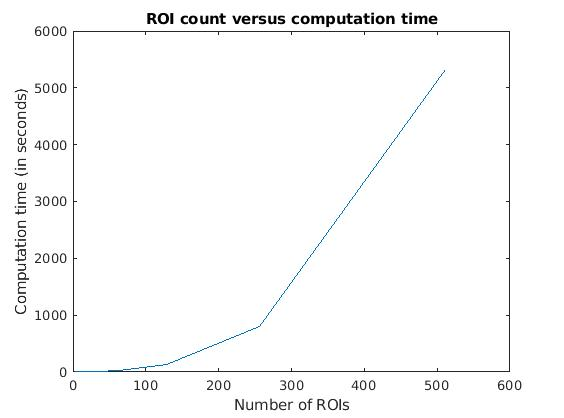
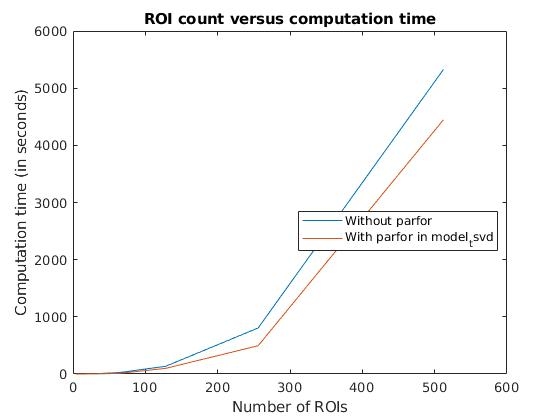
Added data point.

diff --git a/experiments/estimating_time_versus_rois/show_roi_vs_time_plot.m b/experiments/estimating_time_versus_rois/show_roi_vs_time_plot.m
@@ -1,8 +1,13 @@
 M = readmatrix('rois_versus_time.csv')
 col1 = M(:, 1);
 col2 = M(:, 2);
+col3 = M(:, 3);
 figure
-plot(col1, col2)
+plot(col1, col2,'DisplayName','Without parfor')
+hold on 
+plot(col1, col3,'DisplayName','With parfor in model_tsvd')
+hold off
 title('ROI count versus computation time')
 xlabel('Number of ROIs') 
 ylabel('Computation time (in seconds)') 
+legend('Location', 'best')
